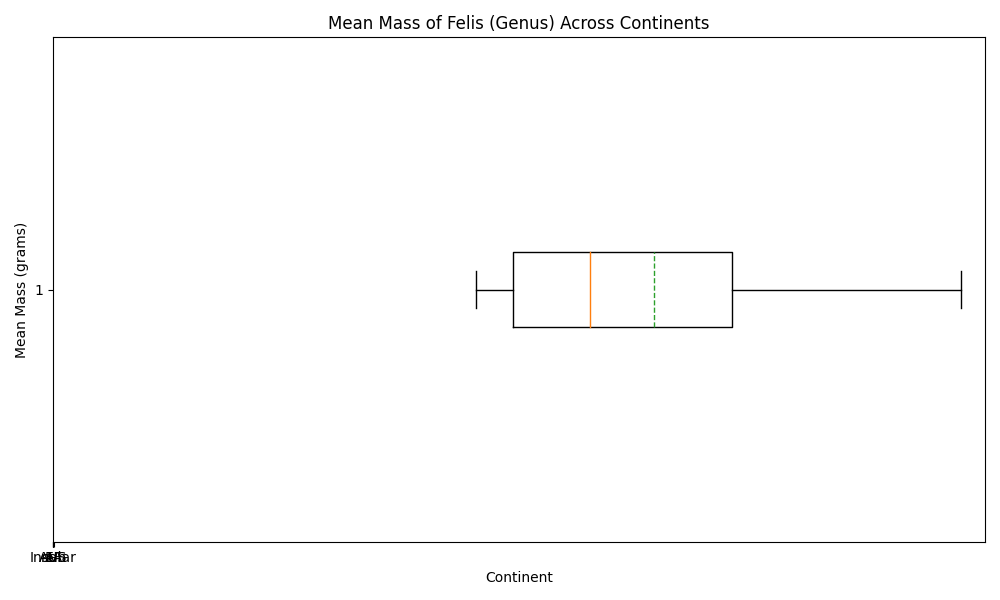
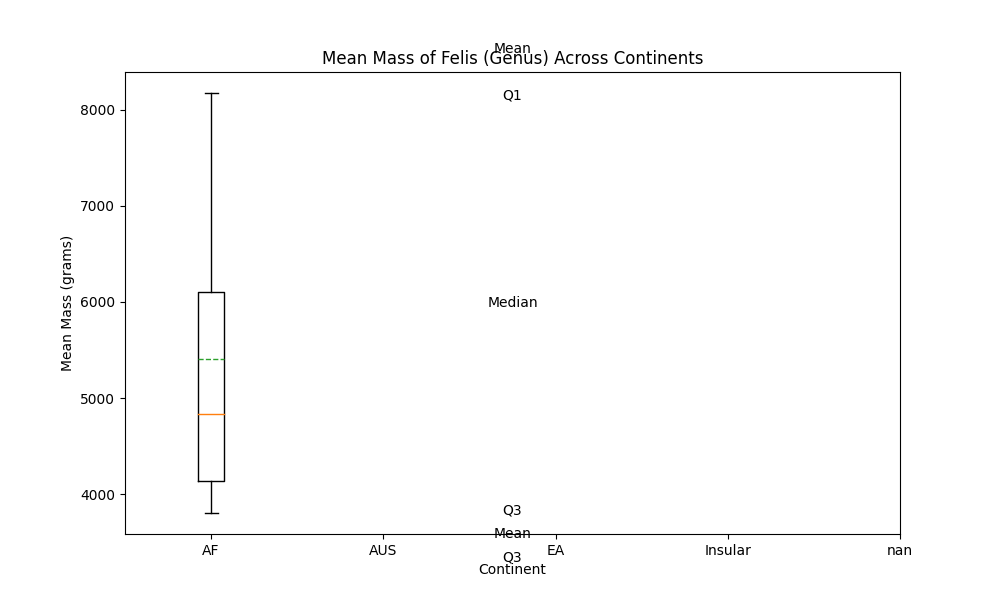
ttttt

diff --git a/Assignment_code.py b/Assignment_code.py
@@ -124,8 +124,21 @@ filtered_df = df[(df['Order'] == 'Carnivora') & (df['Family'] == 'Felidae') & (d
 
 # Create a box plot
 plt.figure(figsize=(10, 6))
-plt.boxplot(filtered_df.groupby('Continent')['Combined Mass (grams)'].mean().values, vert=False, whis=1.5, showmeans=True, meanline=True)
+plt.boxplot(filtered_df.groupby('Continent')['Combined Mass (grams)'].mean().values, vert=True, whis=1.5, showmeans=True, meanline=True)
 plt.xticks(range(1, len(filtered_df['Continent'].unique()) + 1), filtered_df['Continent'].unique())
+#add descrption for quantiles and mean line
+plt.text(0.5, 1.05, 'Mean', horizontalalignment='center', verticalalignment='center', transform=plt.gca().transAxes)
+plt.text(0.5, 0.95, 'Q1', horizontalalignment='center', verticalalignment='center', transform=plt.gca().transAxes)
+plt.text(0.5, 0.5, 'Median', horizontalalignment='center', verticalalignment='center', transform=plt.gca().transAxes)
+plt.text(0.5, 0.05, 'Q3', horizontalalignment='center', verticalalignment='center', transform=plt.gca().transAxes)
+plt.text(0.5, 0.0, 'Mean', horizontalalignment='center', verticalalignment='center', transform=plt.gca().transAxes)
+plt.text(0.5, -0.05, 'Q3', horizontalalignment='center', verticalalignment='center', transform=plt.gca().transAxes)
+plt.text(0.5, -0.95, 'Median', horizontalalignment='center', verticalalignment='center', transform=plt.gca().transAxes)
+plt.text(0.5, -1.05, 'Q1', horizontalalignment='center', verticalalignment='center', transform=plt.gca().transAxes)
+plt.text(0.5, -1.0, 'Mean', horizontalalignment='center', verticalalignment='center', transform=plt.gca().transAxes)
+plt.text(0.5, -1.15, 'Min', horizontalalignment='center', verticalalignment='center', transform=plt.gca().transAxes)
+plt.text(0.5, -1.2, 'Max', horizontalalignment='center', verticalalignment='center', transform=plt.gca().transAxes)
+
 plt.xlabel('Continent')
 plt.ylabel('Mean Mass (grams)')
 plt.title('Mean Mass of Felis (Genus) Across Continents')
